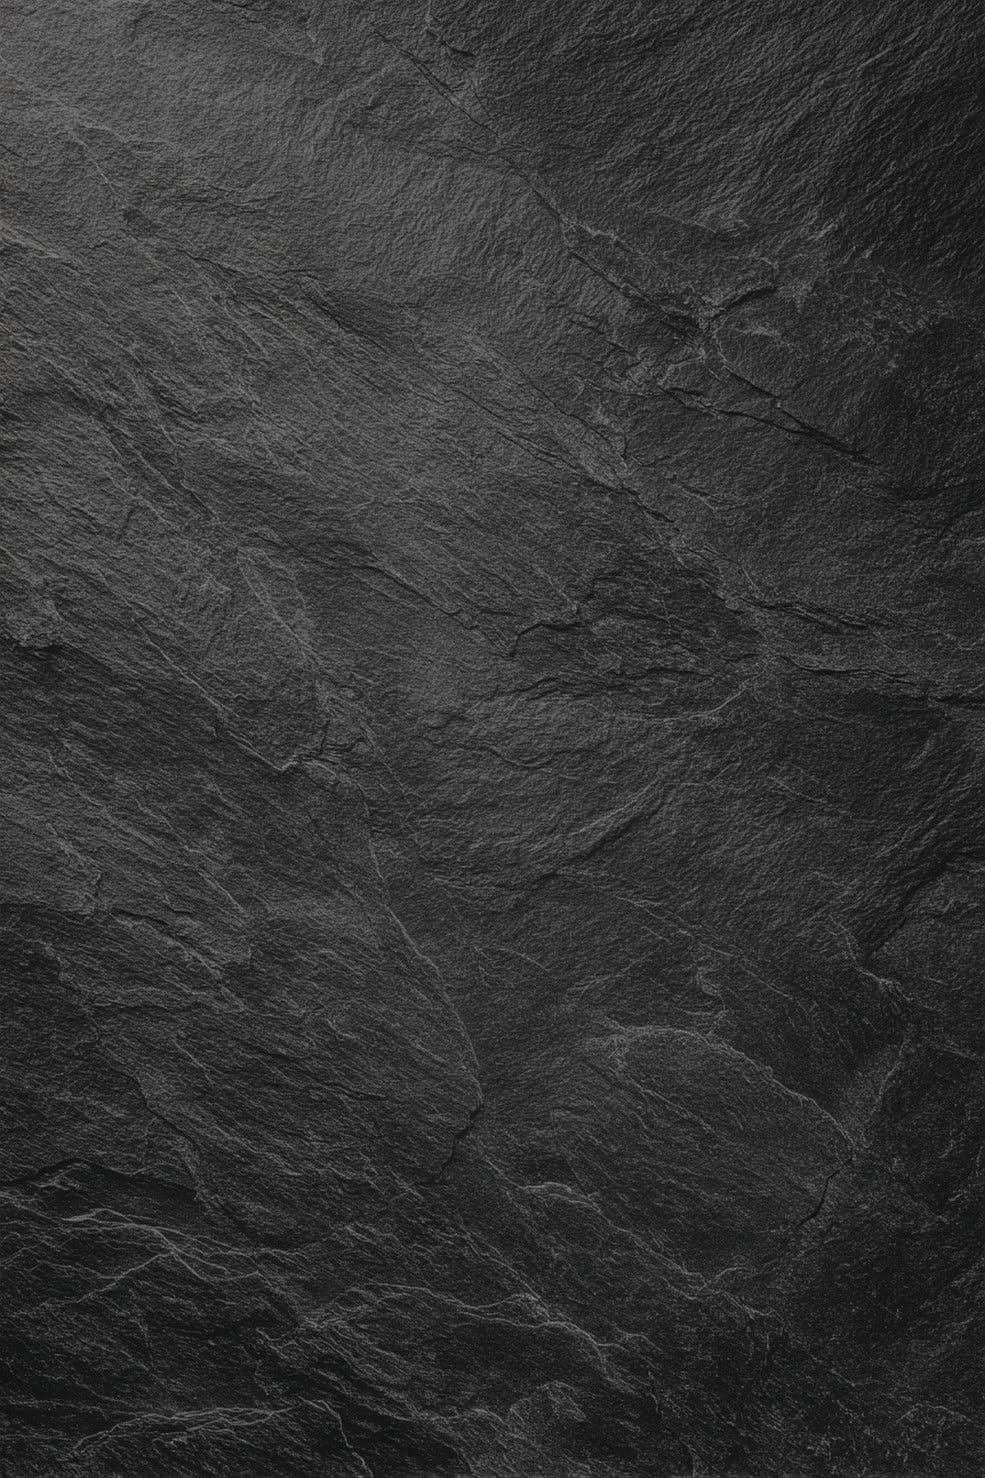
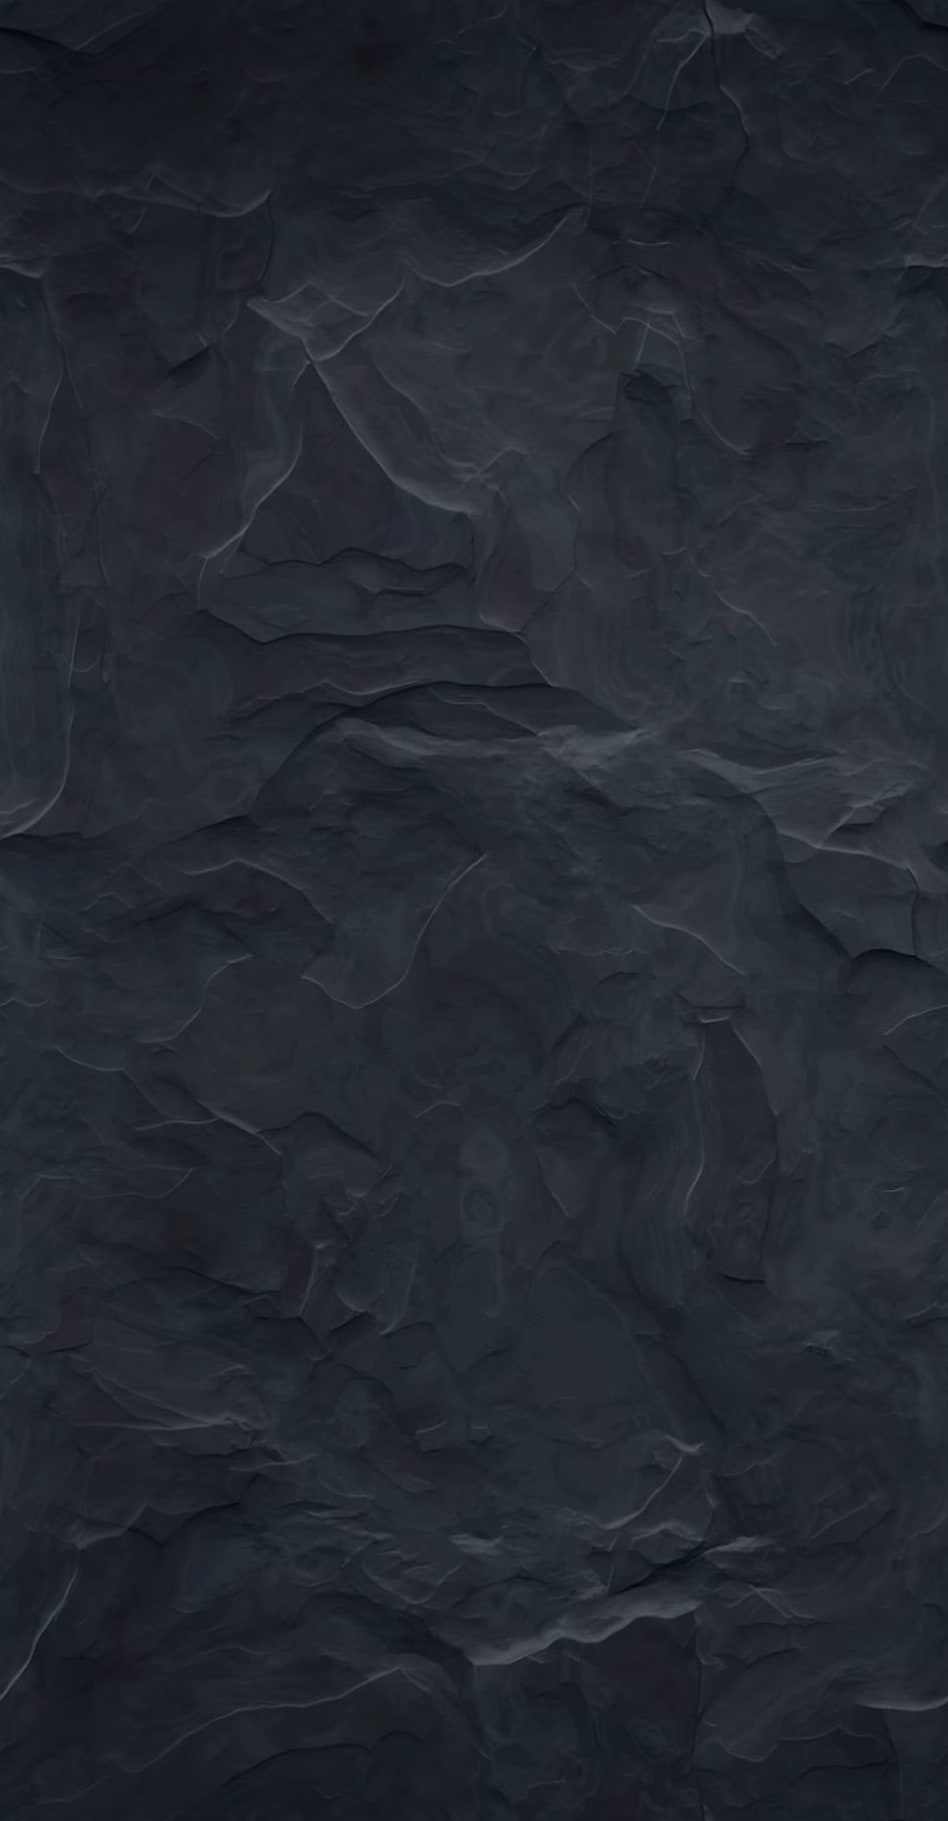
Sfondo di pietra nitido: nuova immagine alle dimensioni originali, ripetuta senza giunture

diff --git a/src/app/globals.css b/src/app/globals.css
@@ -148,8 +148,8 @@ body {
   @apply rounded-lg border border-border bg-panel p-5;
 }
 
-/* Sfondo del gioco: lastra di pietra scura (public/images/pietra.jpg) in
-   trasparenza sul nero, con una vignettatura verso i bordi */
+/* Sfondo del gioco: pietra scura (public/images/pietra.jpg, tessera 948x1821)
+   in trasparenza sul nero, con una vignettatura verso i bordi */
 .stone-bg {
   background-color: var(--background);
 }
@@ -157,8 +157,10 @@ body {
   content: "";
   position: absolute;
   inset: 0;
-  background: url("/images/pietra.jpg") center / cover no-repeat;
-  opacity: 0.35;
+  /* tessera senza giunture (bordi difettosi tolti e lati sfumati uno nell'altro),
+     alle dimensioni originali e ripetuta: resta nitida */
+  background: url("/images/pietra.jpg") top left / 948px 1821px repeat;
+  opacity: 0.55;
 }
 .stone-bg::after {
   content: "";
